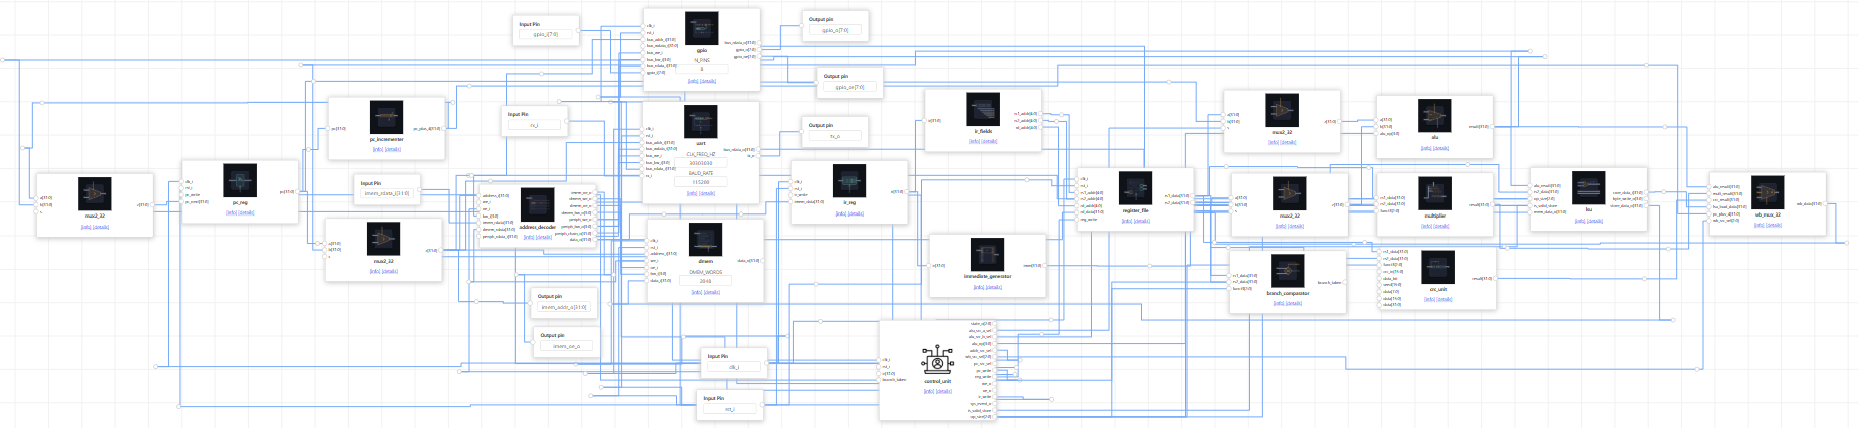
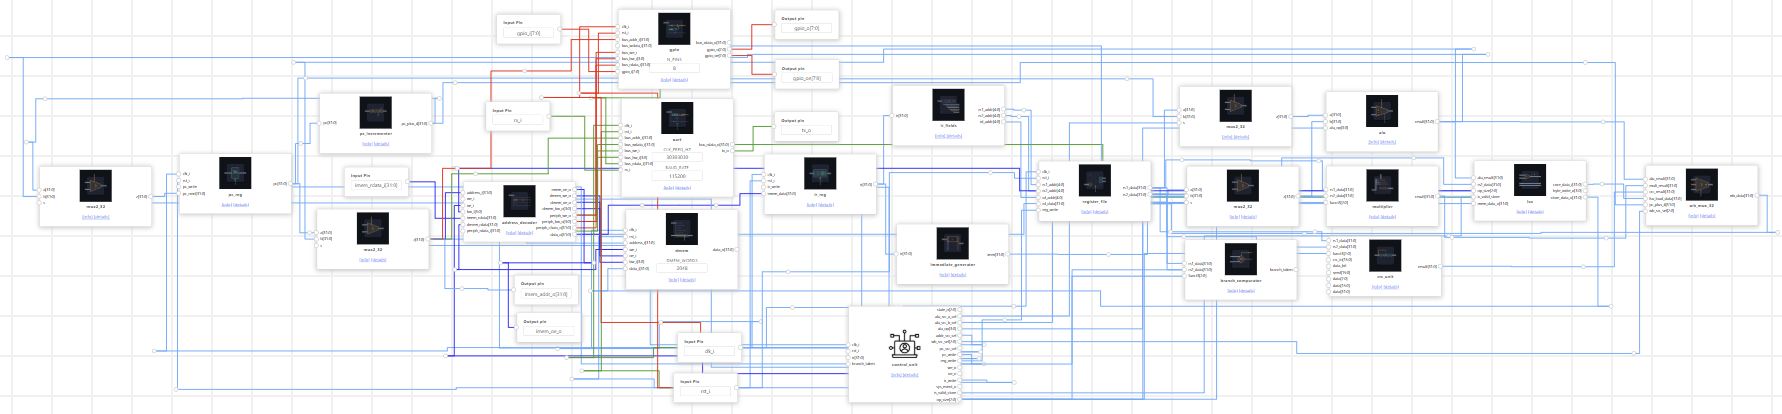
Add the video link, the colour-wired ChipInventor diagrams, and the source archive script
The README links the video and describes the 8-page report and the source
archive. scripts/make_stage3_zip.py builds the Stage 3 archive from the tracked
files of this commit. The tag CRC is inverted with xor, not xori: 0xFFFF does
not fit a 12-bit immediate.

Changed region(s): [[0.0, 0.0, 1.0, 0.9855]]

diff --git a/scripts/make_stage3_zip.py b/scripts/make_stage3_zip.py
@@ -1,0 +1,155 @@
+#!/usr/bin/env python3
+"""Build the Stage 3 source-code archive for the submission portal.
+
+    python scripts/make_stage3_zip.py
+
+Writes RVBL2_Equipe13_Stage3_source.zip at the repository root.
+
+What goes in is Submission Guide section 9: all developed source code (C,
+Verilog, testbenches, scripts) and the complete firmware in binary and
+assembly, plus what an evaluator needs to rebuild and rerun it. The report
+uploads through its own PDF slot and the video is a URL, so neither is here.
+
+The archive is built from the files git tracks, so nothing local (the brief,
+the presentation, build output) can slip in, and it refuses to run if a file
+it would include has uncommitted changes: the archive is exactly the commit.
+
+Left out, on purpose:
+  chipinventor/openlane/   Stage 2's physical design (GDS and GL netlists,
+                           58 MB), submitted in Phase 2 and unchanged since.
+  report/, report-stage3/  the reports and their figures (the PDF is uploaded
+                           separately); Championchip-phase-2-guide.*
+  synth/                   Stage 2 synthesis logs.
+  macros/                  SkyWater's SRAM macro: third-party, and only used
+                           with DMEM_MACRO=1; the default build never reads it.
+"""
+import os
+import subprocess
+import sys
+import zipfile
+
+HERE = os.path.dirname(os.path.abspath(__file__))
+ROOT = os.path.dirname(HERE)
+
+OUT = os.path.join(ROOT, 'RVBL2_Equipe13_Stage3_source.zip')
+TOP = 'rvbl2_equipe13_stage3'
+
+VIDEO_URL = 'https://youtu.be/OZdPSbZZKvU'
+REPO_URL = 'https://github.com/Niccc8/rvbl2-riscv-cpu-core/tree/stage3'
+DEMO_URL = 'https://niccc8.github.io/rvbl2-riscv-cpu-core/demo/'
+
+EXCLUDE_PREFIX = (
+    'chipinventor/openlane/',
+    'report/',
+    'report-stage3/',
+    'synth/',
+    'macros/',
+    'Championchip-phase-2-guide.',
+    '.git',                     # .gitignore, .gitattributes
+    'docs/.nojekyll',
+)
+
+README = """LaneX on RVBL-2 -- Equipe 13 -- ChampionCHIP eXperience, Stage 3
+Source code archive
+
+The report is uploaded separately as a PDF, and the video is a YouTube link.
+
+  Video:          %(video)s
+  GitHub:         %(repo)s
+  Live demo:      %(demo)s
+
+SUBMISSION GUIDE SECTION 9
+  All developed source code
+    Verilog ........... rtl/ (gpio.v, uart.v, address_decoder.v, the core)
+                        chipinventor/blocks/ (the ChipInventor canvas blocks)
+    C ................. application/firmware/ (lane/main.c, lib/, include/, bsp/)
+    Testbenches ....... official-firmware-testbench/, application/testbench/, tb/
+  Complete firmware
+    Assembly .......... application/firmware/out/lane/asm/main.s   (the application)
+                        with hal.s, divmod.s, crt0.s
+    Binary ............ application/firmware/out/lane/firmware.bin
+                        firmware.txt (the IMEM lines), firmware.dmp (disassembly)
+    Official test fw .. official-firmware-testbench/firmware/
+
+LAYOUT
+  README.md                      the full guide to the project (start here)
+  rtl/                           the processor, the GPIO and the UART (reference RTL)
+  tb/                            a testbench for every module of rtl/, and for the SoC
+  chipinventor/                  the design as drawn on ChipInventor: blocks, the canvas
+                                 mirror (ci_top.v), the exported netlists (top.v,
+                                 export_stage3.v), platform testbenches, export checks
+  official-firmware-testbench/   brief section 3: the organisers' test firmware, our IMEM,
+                                 testbenches and logs
+  application/                   brief sections 4-6: LaneX
+    PROTOCOL.md                    frames, records, decisions, timing
+    firmware/                      the C firmware; out/lane/ is the delivered firmware
+    testbench/                     the golden model and the firmware testbenches
+    emulator-preview/              the ./emu command lines, played on the chip
+    replay/                        the demonstration page generator
+  tools/rvbl-firmware-builder/   the organisers' Firmware Builder, an unchanged copy
+  docs/                          specifications; docs/demo/index.html is the demo page
+  scripts/, tests/               regression drivers and test programs
+
+REPRODUCING
+  Needs Icarus Verilog and Python 3; to rebuild firmware, make and a RISC-V GNU
+  toolchain (we used xPack GCC 13.2.0, riscv-none-elf).
+
+    bash official-firmware-testbench/run.sh   official firmware: 34/34 checks
+    make -C application/firmware              the application, the organisers' way
+    bash scripts/run_all.sh                   every Stage 2 and Stage 3 testbench
+    bash chipinventor/scripts/run_ci.sh       the ChipInventor design and its export
+
+  All are self-checking and exit non-zero on any failure.
+
+NOT INCLUDED
+  Stage 2's physical design (GDS, GL netlists; in Phase 2's archive and on GitHub),
+  the reports, the Stage 2 synthesis logs, and SkyWater's optional SRAM macro
+  (used only with DMEM_MACRO=1).
+
+ATTRIBUTION
+  tools/rvbl-firmware-builder/ and official-firmware-testbench/firmware/ (main.s,
+  firmware.txt) are the organisers' own, copied unchanged. Everything else is
+  Equipe 13's own work.
+""" % {'video': VIDEO_URL, 'repo': REPO_URL, 'demo': DEMO_URL}
+
+
+def git(*args):
+    return subprocess.run(('git',) + args, cwd=ROOT, check=True,
+                          capture_output=True, text=True).stdout
+
+
+def main():
+    tracked = git('ls-files', '-z').split('\0')
+    files = [f for f in tracked if f and not f.startswith(EXCLUDE_PREFIX)]
+
+    dirty = set(git('diff', '--name-only', 'HEAD').split())
+    dirty_in = sorted(f for f in files if f in dirty)
+    if dirty_in:
+        sys.stderr.write('uncommitted changes in files the archive includes:\n  %s\n'
+                         'commit them first: the archive must match the commit.\n'
+                         % '\n  '.join(dirty_in))
+        return 1
+    missing = [f for f in files if not os.path.isfile(os.path.join(ROOT, f))]
+    if missing:
+        sys.stderr.write('missing sources:\n  %s\n' % '\n  '.join(missing))
+        return 1
+
+    with zipfile.ZipFile(OUT, 'w', zipfile.ZIP_DEFLATED, compresslevel=9) as z:
+        z.writestr('%s/README.txt' % TOP, README)
+        for f in files:
+            z.write(os.path.join(ROOT, f), '%s/%s' % (TOP, f))
+
+    size = os.path.getsize(OUT)
+    limit = 20 * 1048576
+    print('wrote %s' % OUT)
+    print('  commit:  %s' % git('rev-parse', '--short', 'HEAD').strip())
+    print('  entries: %d' % (len(files) + 1))
+    print('  size:    %.2f MB   (Phase 2 portal limit: 20 MB)  %s'
+          % (size / 1048576.0, 'OK' if size <= limit else 'TOO BIG'))
+    if 'VIDEO-ID' in VIDEO_URL:
+        print('  NOTE:    VIDEO_URL is still the placeholder')
+    return 0 if size <= limit else 1
+
+
+if __name__ == '__main__':
+    sys.exit(main())

diff --git a/README.md b/README.md
@@ -37,12 +37,13 @@ ChampionCHIP platform and the video is on YouTube; **everything else is in this 
 
 | Guide §9 requires | Where it is |
 |---|---|
-| Technical report (PDF, max. 7 pages) | submitted on the ChampionCHIP platform (7 pages, 1.6 MB); its figures are in [`report-stage3/figures/`](report-stage3/figures/) |
+| Technical report (PDF) | submitted on the ChampionCHIP platform (8 pages: 7 plus 1 of the 2 extra pages the organisers allow; 1.6 MB); its figures are in [`report-stage3/figures/`](report-stage3/figures/) |
 | GitHub link | this repository, branch **`stage3`** |
-| Video demo (YouTube) | *link to be added* (also on the report's first page) |
+| Video demo (YouTube) | **[https://youtu.be/OZdPSbZZKvU](https://youtu.be/OZdPSbZZKvU)** (also on the report's first page) |
 | All developed source code (C, Verilog) | Verilog: **[`rtl/`](rtl/)** (with `gpio.v`, `uart.v`), **[`chipinventor/blocks/`](chipinventor/blocks/)** · C: **[`application/firmware/`](application/firmware/)** · testbenches: **[`official-firmware-testbench/`](official-firmware-testbench/)**, **[`application/testbench/`](application/testbench/)**, **[`tb/`](tb/)** |
 | Live demonstration | **[https://niccc8.github.io/rvbl2-riscv-cpu-core/demo/](https://niccc8.github.io/rvbl2-riscv-cpu-core/demo/)**: the chip's own records, replayed and checked in your browser |
 | Complete firmware, binary and assembly | **The application in assembly: [`application/firmware/out/lane/asm/main.s`](application/firmware/out/lane/asm/main.s)**, with [`hal.s`](application/firmware/out/lane/asm/hal.s), [`divmod.s`](application/firmware/out/lane/asm/divmod.s) and [`crt0.s`](application/firmware/out/lane/asm/crt0.s): the complete program · **the binary: [`firmware.bin`](application/firmware/out/lane/firmware.bin)**, with `firmware.txt` (the IMEM lines) and `firmware.dmp` (the disassembly) · [how to read `main.s`](application/firmware/README.md#reading-mains) · the official test firmware: [`official-firmware-testbench/firmware/`](official-firmware-testbench/firmware/) |
+| Project files (source archive) | uploaded on the platform, built from this branch by [`scripts/make_stage3_zip.py`](scripts/make_stage3_zip.py): every file of the list above, and what rebuilds and reruns them |
 
 ---
 

diff --git a/application/PROTOCOL.md b/application/PROTOCOL.md
@@ -73,7 +73,7 @@ All multi-byte fields are little-endian, and `len` ≤ 32.
 
 **Tag integrity.** A Gen2 tag stores `StoredCRC = CRC-16/EPC-C1G2(PC word ‖ EPC)`, which is
 our Xicrc CRC-16/CCITT-FALSE followed by `XOR 0xFFFF`. The chip recomputes it with 14
-`crcb` instructions and one `xori`, and ignores a read that does not match. The standard's
+`crcb` instructions and one `xor` (0xFFFF is too wide for `xori`), and ignores a read that does not match. The standard's
 check value `0xD64E` is verified on the RTL by the firmware self-test (`firmware/selftest`).
 
 **Registered class** = `epc[0] & 7`. This is our tag profile, and an assumption: the

diff --git a/application/firmware/README.md b/application/firmware/README.md
@@ -105,7 +105,7 @@ already known.
 
 **CRC (Xicrc).** The chip's own CRC instructions do all CRC work:
 - frames: one `crcb` per received byte;
-- tag reads: the RFID tag's CRC is 14 `crcb` and one `xori` (the standard's CRC is our
+- tag reads: the RFID tag's CRC is 14 `crcb` and one `xor` (the standard's CRC is our
   CRC-16 inverted);
 - records: 6 `crcb` per 8-byte record;
 - the ROM measurement: one `crcw` per 32-bit word of the whole program.
